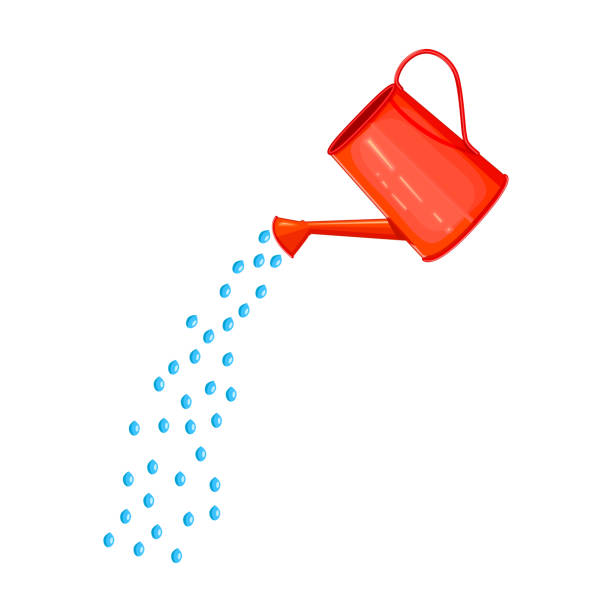
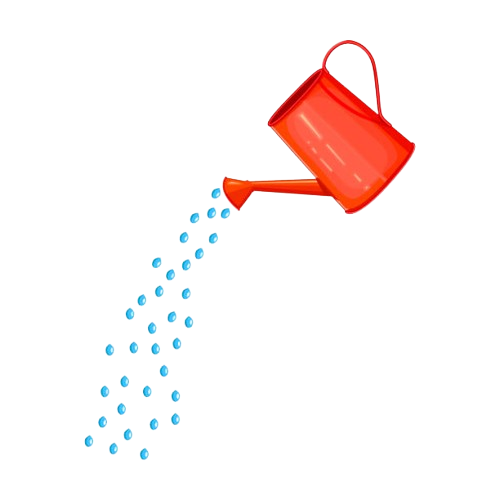
[isa] added watering animation

diff --git a/frontend/src/components/plant-dashboard/Plant.tsx b/frontend/src/components/plant-dashboard/Plant.tsx
@@ -1,11 +1,12 @@
-import { useEffect } from "react";
+import { useEffect, useState } from "react";
 import { usePlantSettings } from "../contexts/PlantSettingsContext";
 import "./Plant.css";
-// import monstera from "../../assets/monstera.jpg";
 
 const Plant = () => {
   const { isTalking, event, lightState, plantType, setLightState } =
     usePlantSettings();
+
+  const [animation, setAnimation] = useState<string>("");
 
   useEffect(() => {
     if (event === null) {
@@ -25,7 +26,8 @@ const Plant = () => {
 
     // handle water state changes
     if (event === "watering") {
-      // TODO: short animation
+      setAnimation("watering");
+      setTimeout(() => setAnimation(""), 30000);
     }
   }, [event]);
 
@@ -36,6 +38,7 @@ const Plant = () => {
         {lightState === "bright" && (
           <div className={`sunglasses ${isTalking ? "jump" : ""}`}></div>
         )}
+        {animation === "watering" && <div className="watercan"></div>}
         {plantType === "swiss cheese" ? (
           <div className={`plant plant-monstera ${isTalking ? "jump" : ""}`} />
         ) : (

diff --git a/frontend/src/components/plant-dashboard/Plant.css b/frontend/src/components/plant-dashboard/Plant.css
@@ -156,3 +156,36 @@
   background-size: contain;
   background-position: center;
 }
+
+.watercan {
+  position: absolute;
+  width: 300px;
+  height: 300px;
+  right: 20%;
+  background-image: url("src/assets/watercan.jpg");
+  background-repeat: no-repeat;
+  background-size: contain;
+  background-position: center;
+
+  animation: wobble 2s ease-in-out infinite;
+  /* transform: rotate(20deg);  */
+  transform-origin: center; /* rotate around the center of the image */
+}
+
+@keyframes wobble {
+  0% {
+    transform: rotate(25deg);
+  }
+  25% {
+    transform: rotate(23deg);
+  }
+  50% {
+    transform: rotate(20deg);
+  }
+  75% {
+    transform: rotate(23deg);
+  }
+  100% {
+    transform: rotate(25deg);
+  }
+}
